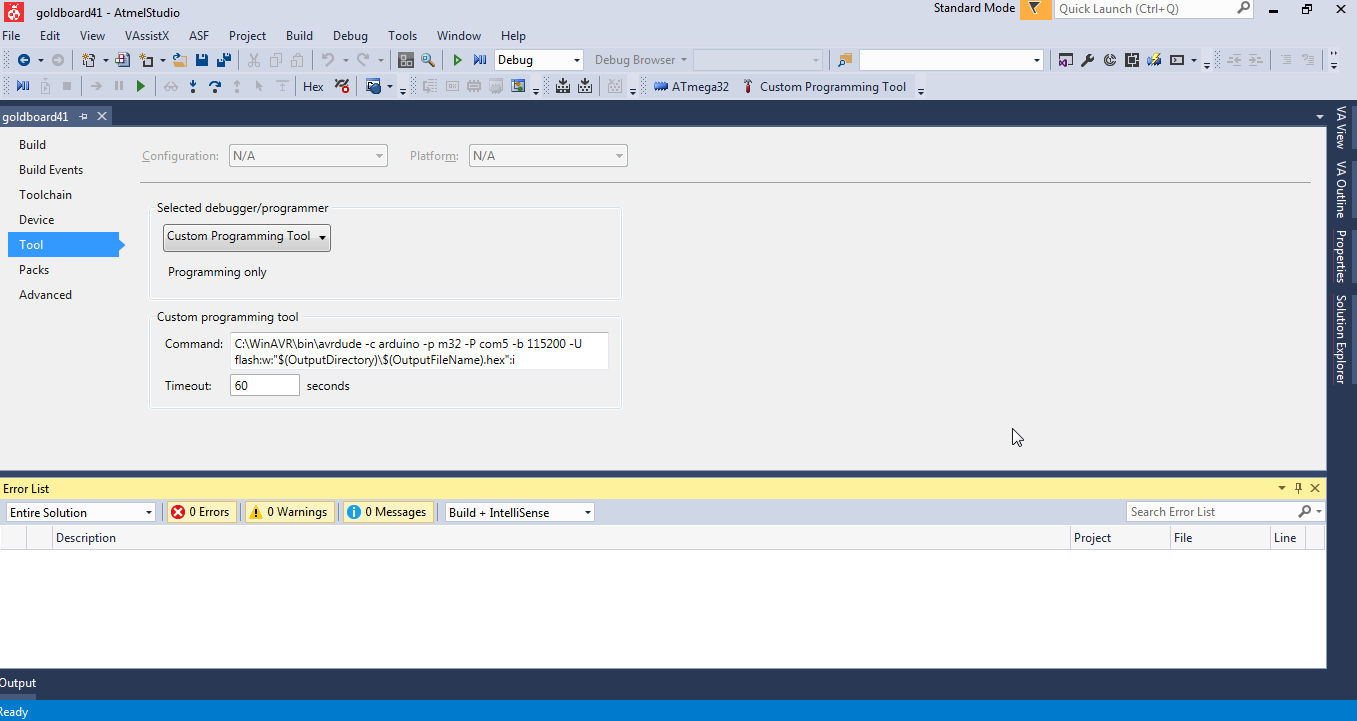
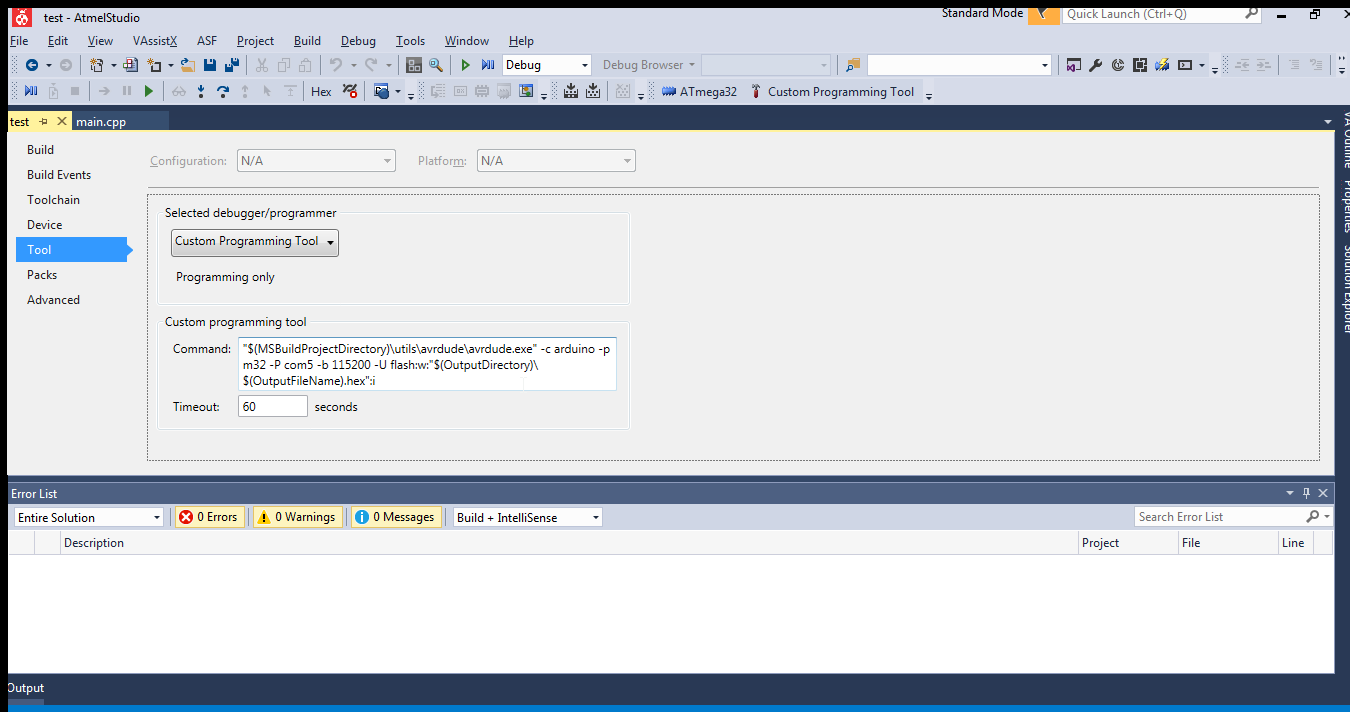
átmelstudio usage update

Changed region(s): [[0.0, 0.0, 1.0, 1.0], [0.0933, 0.4326, 0.4667, 0.5871]]

diff --git a/README.md b/README.md
@@ -1,30 +1,5 @@
 # Goldboard4 Version 2.1
 
-## TODO
-* full test
-   * ~motors~
-   * servos
-   * ~pwmpins~
-   * ~digitalpins~
-   * ~analogpins~
-   * ~buttons~
-   * ~leds~
-   * robot->bluetooth->pc
-   * robot->bluetooth->robot
-   * ~power pins~
-   * CMPS11
-   * ~CMPS03~
-   * ~SRF08~
-   * SRF10
-   * VL53L0X
-   * ~pixy~
-   * ~usring~
-   * ~lcd~
-* make clean doxygen comments
-* upgrade servo PWM to every pin
-* check race condition on interrupts
-* add i2c hang up recovery
-
 ## Hardware
 
 Die Pins des Atmega32 sind am Goldboard4 wie in der folgenden Grafik belegt. PAx, PBx, PCx, und PDx sind die Ports des AVR. ADCx sind die Analogpins des Goldboard. Dx sind die Digitalpins des Goldboard.
@@ -63,19 +38,23 @@ Zum setzen der Fuse Bits schreibt folgende Hex Zahlen in die Felder für Low Byt
 * Low Byte:   0xFF
 * High Byte:  0xD4
 
-> TODO bild fehlt
+![](images/atmelstudio7/fuses3.png)
 
 Um den Bootloader hochzuladen wählt die in eurem projekt enthaltene datei bootloader_mega32_optiboot.hex aus. Diese findet ihr in dem Ordner utils. Durch drücken von program ladet ihr den Bootloader hoch.
 
+
+![](images/atmelstudio7/bootloader.png)
+
 #### Programmer für Bootloader konfigurieren
 
-zum Hochladen über usb müsst ihr euren Programmer wie folgt konfigurieren. Kopiert folgende zeile in das Command Feld:
+zum Hochladen über usb müsst ihr euren Programmer wie folgt konfigurieren. Kopiert folgende Zeile in das Command Feld:
 
-![](images/bootloader_einstellungen.png)
-> "$(SolutionDir)\utils\avrdude" -c arduino -p m32 -P com5 -b 115200 -U flash:w:"$(OutputDirectory)\$(OutputFileName).hex":i
+![](images/atmelstudio7/bootloader_einstellungen.png)
+
+>"$(MSBuildProjectDirectory)\utils\avrdude\avrdude.exe" -c arduino -p m32 -P com5 -b 115200 -U flash:w:"$(OutputDirectory)\$(OutputFileName).hex":i
 
 Je nachdem unter welchem COM-Port euer Goldboard erkannt wird, müsst ihr
-"com5" in z.B. com3 abändern.
+"com5" in z.B. "com3" ändern.
 
 
 ## Atom with Platform-IO plugin
@@ -92,3 +71,29 @@ make
 
 ### Upload:
 make program
+
+
+## TODO
+* full test
+   * ~motors~
+   * servos
+   * ~pwmpins~
+   * ~digitalpins~
+   * ~analogpins~
+   * ~buttons~
+   * ~leds~
+   * robot->bluetooth->pc
+   * robot->bluetooth->robot
+   * ~power pins~
+   * CMPS11
+   * ~CMPS03~
+   * ~SRF08~
+   * SRF10
+   * VL53L0X
+   * ~pixy~
+   * ~usring~
+   * ~lcd~
+* make clean doxygen comments
+* upgrade servo PWM to every pin
+* check race condition on interrupts
+* add i2c hang up recovery
